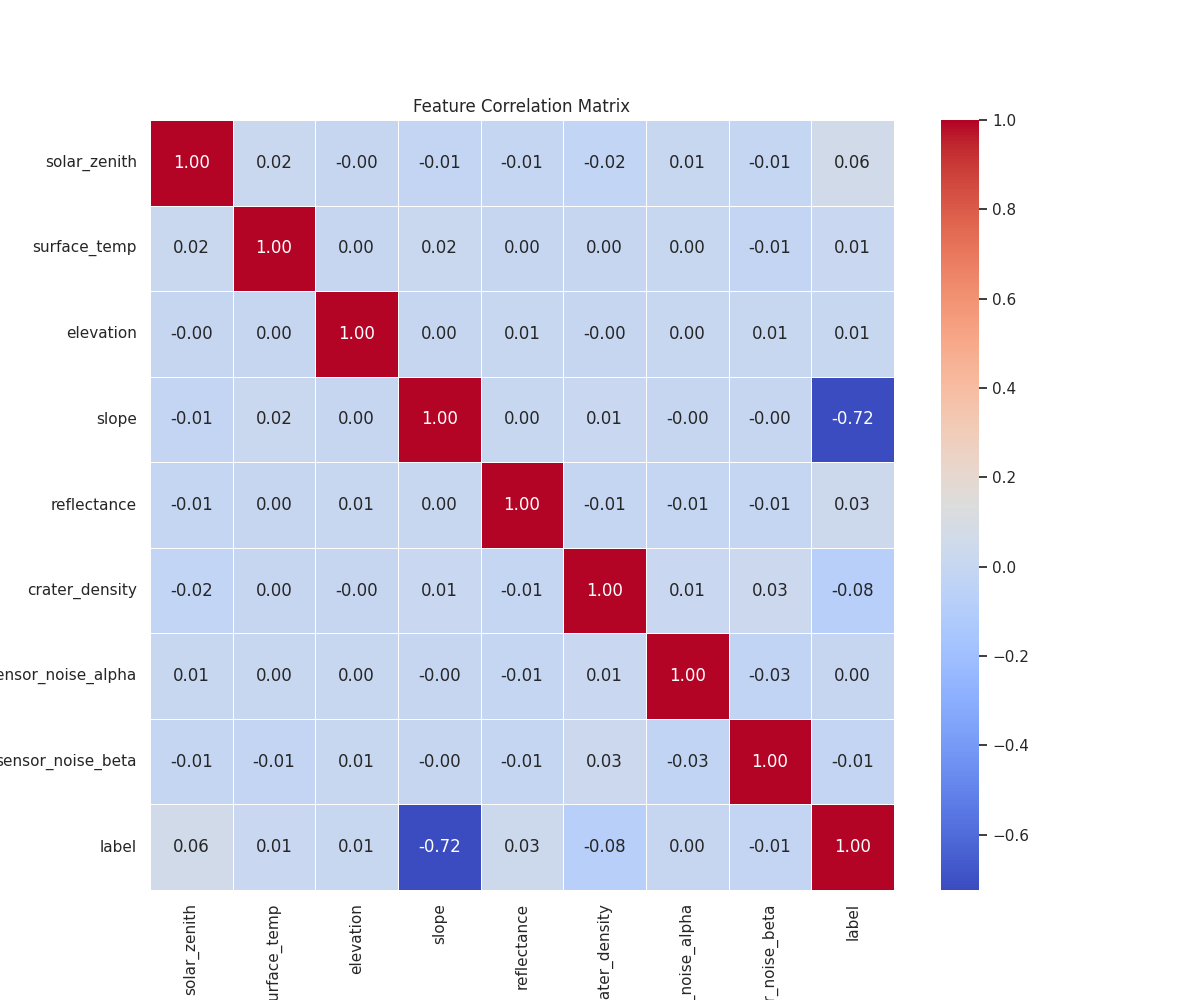
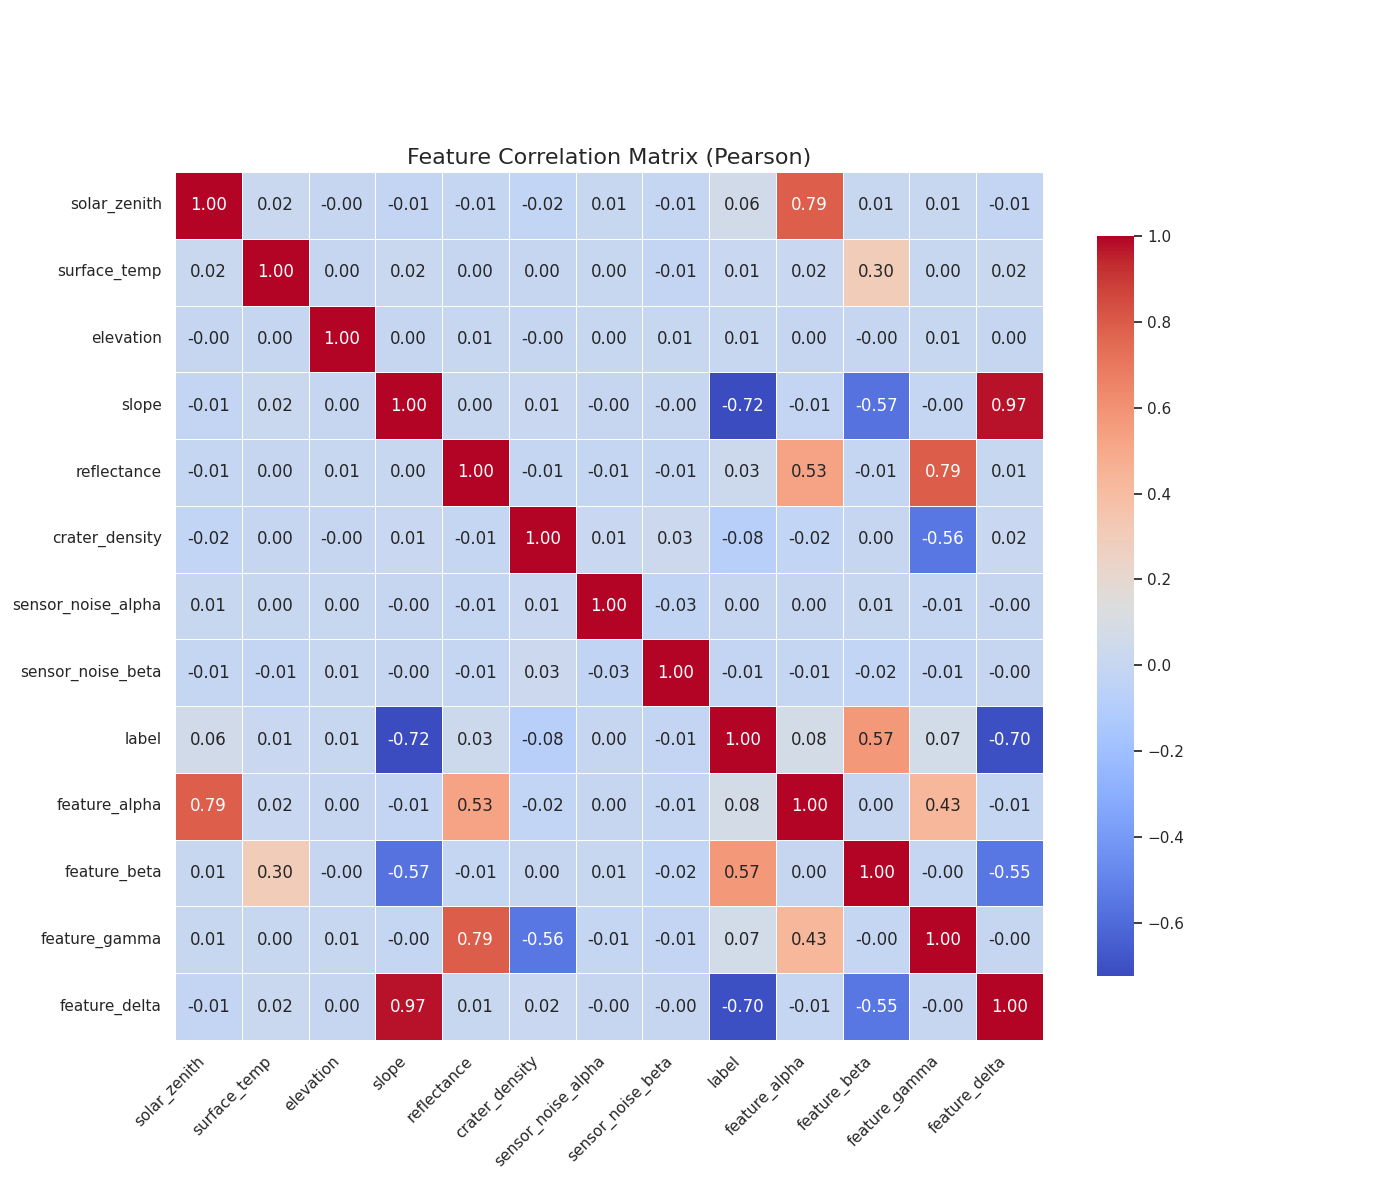
adding more visualization

Changed region(s): [[0.0, 0.093, 0.8633, 1.0]]

diff --git a/visualization/visualization.py b/visualization/visualization.py
@@ -2,25 +2,41 @@ import pandas as pd
 import numpy as np
 import matplotlib.pyplot as plt
 import seaborn as sns
-
+import lunadem
 # Load the dataset
-df = pd.read_csv('data.csv')
+data = pd.read_csv('/home/remandey/my-programs/stac/stac_machine_learning/visualization/data.csv')
+a=lunadem.extract_feature_alpha(data)
+data['feature_alpha'] = a
+b=lunadem.extract_feature_beta(data)
+data['feature_beta'] = b
+c=lunadem.extract_feature_gamma(data)
+data['feature_gamma'] = c
+d=lunadem.extract_feature_delta(data)
+data['feature_delta'] = d
 
 # Set up the plotting environment
 sns.set_theme(style="whitegrid")
-plt.figure(figsize=(12, 10))
 
 # 1. Correlation Heatmap
-sns.heatmap(df.corr(method='spearman'), annot=True, cmap='coolwarm', fmt=".2f", linewidths=0.5)
-plt.title('Feature Correlation Matrix')
-plt.savefig('spearman_correlation_matrix.png')
-plt.close()
+methods=['pearson', 'spearman', 'kendall']
+for method in methods:
+    plt.figure(figsize=(14, 12))
+    corr = data.corr(method=method)
+    # Create a mask for the upper triangle to reduce redundancy and clutter
+    
+    sns.heatmap(
+        corr, annot=True, fmt=".2f", cmap='coolwarm', 
+        square=True, linewidths=.5, cbar_kws={"shrink": .8}
+    )
+    plt.title(f'Feature Correlation Matrix ({method.capitalize()})', fontsize=16)
+    plt.xticks(rotation=45, ha='right')
+    plt.savefig(f'{method}_correlation_matrix.png')
+    plt.close()
+    print(f"Visualization saved as '{method}_correlation_matrix.png'!")
 
-# 2. Pairplot colored by the target label to see distributions and separations
-# (Sampling 500 points for speed if the dataset is large)
-sample_df = df.sample(n=min(1000, len(df)), random_state=42)
+# 2. Pairplot colored by the target label (Moved outside the loop to avoid redundant compute)
+sample_df = data.sample(n=min(1000, len(data)), random_state=42)
 sns.pairplot(sample_df, hue='label', palette='husl', diag_kind='kde')
 plt.savefig('features_pairplot.png')
 plt.close()
-
-print("Visualizations saved as 'spearman_correlation_matrix.png' and 'features_pairplot.png'!")
+print("Visualization saved as 'features_pairplot.png'!")

diff --git a/visualization/pair_scatter.py b/visualization/pair_scatter.py
@@ -1,0 +1,32 @@
+import pandas as pd
+import matplotlib.pyplot as plt
+from sklearn.feature_selection import mutual_info_regression
+import lunadem
+# Load the dataset
+data = pd.read_csv('/home/remandey/my-programs/stac/stac_machine_learning/visualization/data.csv')
+a=lunadem.extract_feature_alpha(data)
+data['feature_alpha'] = a
+b=lunadem.extract_feature_beta(data)
+data['feature_beta'] = b
+c=lunadem.extract_feature_gamma(data)
+data['feature_gamma'] = c
+d=lunadem.extract_feature_delta(data)
+data['feature_delta'] = d
+
+# Get all column names except 'label'
+variables = [col for col in data.columns if col != 'label']
+
+# Create scatter plots for each variable against 'label'
+for var in variables:
+    # A high MI score confirms a relationship exists despite zero correlation
+    x = data[var]
+    y = data['label']
+    mi_score = mutual_info_regression(x.values.reshape(-1, 1), y)
+    print(f'Mutual Information between {var} and label: {mi_score[0]:.4f}')
+    plt.figure() # Create a new figure for each plot
+    plt.scatter(x, y)
+    plt.xlabel(var.replace('_', ' ').title()) # Format variable name for readability
+    plt.ylabel('Label')
+    plt.title(f'{var.replace("_", " ").title()} vs Label')
+    plt.grid(True)
+    plt.show()

diff --git a/model_code/terrain_classifier.py b/model_code/terrain_classifier.py
@@ -15,9 +15,7 @@ from sklearn.svm import SVC
 
 
 RAW_FEATURES = [
-    "solar_zenith",
-    "surface_temp",
-    "elevation",
+zzz
     "slope",
     "reflectance",
     "crater_density",

diff --git a/README.md b/README.md
@@ -48,6 +48,7 @@ The final prediction pipeline is shared across training, evaluation, and live in
 
 - `slope` is the most important visible feature because it has a strong negative relationship with the label.
 - The rule `slope > 14 -> label 0` appeared consistently in the historical dataset.
+- `feature delta` is another important visible feature because we find that it segregates the label into two classes based on its range.
 - The target classes are fairly balanced, so accuracy is meaningful, but ROC-AUC is still better for judging probability ranking.
 - The correlation matrices showed that not every feature has a strong linear relationship with the label, so nonlinear transformations and interactions were useful.
 - Because ROC-AUC evaluates ranking quality, the final output is the probability of class `1`, not a boolean class label.

diff --git a/model_code/ACCURACY_LOG.md b/model_code/ACCURACY_LOG.md
@@ -1,0 +1,1 @@
+-`basic adaboost tree+svm+MLP`-accuracy:0.9545
